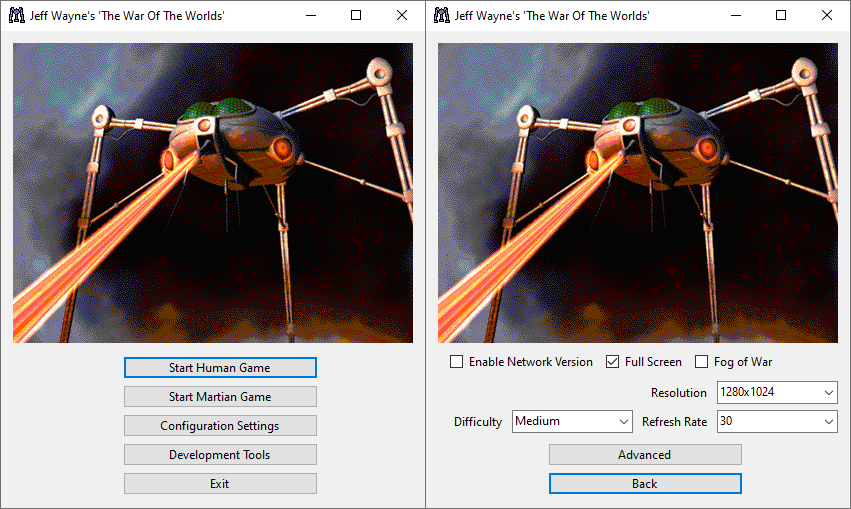
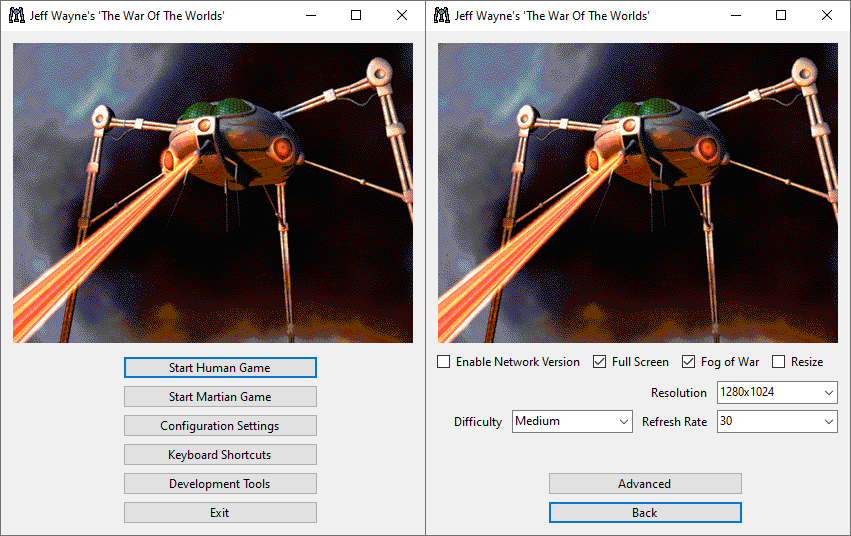
keybindings import export

diff --git a/WoWLauncher/KeyboardShortcutsForm.cs b/WoWLauncher/KeyboardShortcutsForm.cs
@@ -7,7 +7,7 @@
         {
             InitializeComponent();
             ToolTip tooltip = new ToolTip();
-            ToolTipHelper.EnableTooltips(this.Controls, tooltip, typeof(Button) );
+            ToolTipHelper.EnableTooltips(this.Controls, tooltip, typeof(Button));
             ParseExecutable();
         }
         // parse the executables current key bindings
@@ -363,7 +363,7 @@
                 keybindings[keyName].LinkedTextBox!.Text = ((Keys)keybindings[keyName].DefaultVK).ToString();
             };
         }
-        public void ping(string keyName) { MessageBox.Show(FormatInvalidKeyMessage(keyName), "Invalid Key", MessageBoxButtons.OK, MessageBoxIcon.Warning); }   
+        public void ping(string keyName) { MessageBox.Show(FormatInvalidKeyMessage(keyName), "Invalid Key", MessageBoxButtons.OK, MessageBoxIcon.Warning); }
         public string FormatInvalidKeyMessage(string keyName)
         {
             if (keybindings.TryGetValue(keyName, out var binding))
@@ -394,5 +394,46 @@
                 else if (result == DialogResult.Yes) { button62.PerformClick(); } // Trigger the save button
             }
         }
+        // import keybinds
+        private void button69_Click(object sender, EventArgs e)
+        {
+            string filePath;
+            using (OpenFileDialog openFileDialog = new OpenFileDialog())
+            {
+                openFileDialog.InitialDirectory = Directory.GetCurrentDirectory();
+                openFileDialog.Filter = "Keybinding Files (*.key)|*.key";
+                openFileDialog.FilterIndex = 1;
+                openFileDialog.RestoreDirectory = true;
+                openFileDialog.Title = "Import keybinding presets.";
+                if (openFileDialog.ShowDialog() != DialogResult.OK) { return; }
+                else { filePath = openFileDialog.FileName; }
+            }
+            byte[] loaded = File.ReadAllBytes(filePath);
+            if (loaded.Length != keybindings.Count)
+            {
+                MessageBox.Show("Invalid keybindings file. Import aborted.", "Error", MessageBoxButtons.OK, MessageBoxIcon.Error);
+                return;
+            }
+            int i = 0;
+            foreach (var key in keybindings.Values) { key.CurrentVK = loaded[i++]; }
+            updateAllUI();
+        }
+        // export keybindings
+        private void button70_Click(object sender, EventArgs e)
+        {
+            using (SaveFileDialog sfd = new SaveFileDialog())
+            {
+                sfd.Title = "Export Keybindings";
+                sfd.Filter = "Keybinding Files (*.key)|*.key|All Files (*.*)|*.*";
+                sfd.DefaultExt = "key";
+                sfd.FileName = "bindings.key";
+                if (sfd.ShowDialog() == DialogResult.OK)
+                {
+                    File.WriteAllBytes(sfd.FileName, keybindings.Values.Select(k => k.CurrentVK).ToArray());
+                    MessageBox.Show("Keybindings exported successfully.", "Export Complete", MessageBoxButtons.OK, MessageBoxIcon.Information);
+                }
+            }
+        }
+        private void updateAllUI() { foreach (var keyName in keybindings.Keys) { updateUI(keyName); } }
     }
 }

diff --git a/WoWLauncher/KeyboardShortcutsForm.Designer.cs b/WoWLauncher/KeyboardShortcutsForm.Designer.cs
@@ -163,6 +163,8 @@
             button68 = new Button();
             label33 = new Label();
             textBox33 = new TextBox();
+            button69 = new Button();
+            button70 = new Button();
             SuspendLayout();
             // 
             // button1
@@ -1278,7 +1280,7 @@
             // 
             // button61
             // 
-            button61.Location = new Point(119, 375);
+            button61.Location = new Point(122, 375);
             button61.Name = "button61";
             button61.Size = new Size(75, 23);
             button61.TabIndex = 111;
@@ -1288,7 +1290,7 @@
             // 
             // button62
             // 
-            button62.Location = new Point(200, 375);
+            button62.Location = new Point(203, 375);
             button62.Name = "button62";
             button62.Size = new Size(75, 23);
             button62.TabIndex = 121;
@@ -1407,11 +1409,33 @@
             textBox33.TabIndex = 130;
             textBox33.Text = "Spacebar";
             // 
+            // button69
+            // 
+            button69.Location = new Point(760, 375);
+            button69.Name = "button69";
+            button69.Size = new Size(75, 23);
+            button69.TabIndex = 134;
+            button69.Text = "Import";
+            button69.UseVisualStyleBackColor = true;
+            button69.Click += button69_Click;
+            // 
+            // button70
+            // 
+            button70.Location = new Point(841, 375);
+            button70.Name = "button70";
+            button70.Size = new Size(75, 23);
+            button70.TabIndex = 135;
+            button70.Text = "Export";
+            button70.UseVisualStyleBackColor = true;
+            button70.Click += button70_Click;
+            // 
             // KeyboardShortcutsForm
             // 
             AutoScaleDimensions = new SizeF(7F, 15F);
             AutoScaleMode = AutoScaleMode.Font;
             ClientSize = new Size(1015, 450);
+            Controls.Add(button70);
+            Controls.Add(button69);
             Controls.Add(button67);
             Controls.Add(button68);
             Controls.Add(label33);
@@ -1690,5 +1714,7 @@
         private Button button68;
         private Label label33;
         private TextBox textBox33;
+        private Button button69;
+        private Button button70;
     }
 }

diff --git a/WoWViewer/TextEditorForm.cs b/WoWViewer/TextEditorForm.cs
@@ -179,7 +179,7 @@ namespace WoWViewer
                 openFileDialog.RestoreDirectory = true;
                 openFileDialog.Title = "Import TEXT.OJD.TXT file";
                 if (openFileDialog.ShowDialog() != DialogResult.OK) { return; }
-                else { filePath = openFileDialog.FileName; }
+                else { filePath = openFileDialog.FileName; } // this is wrong?
             }
             var lines = File.ReadLines(filePath, Latin1);
             if (lines.Count() < 1396) // check the line count matches before updating so there is no need to reparse the original TEXT.ojd file
